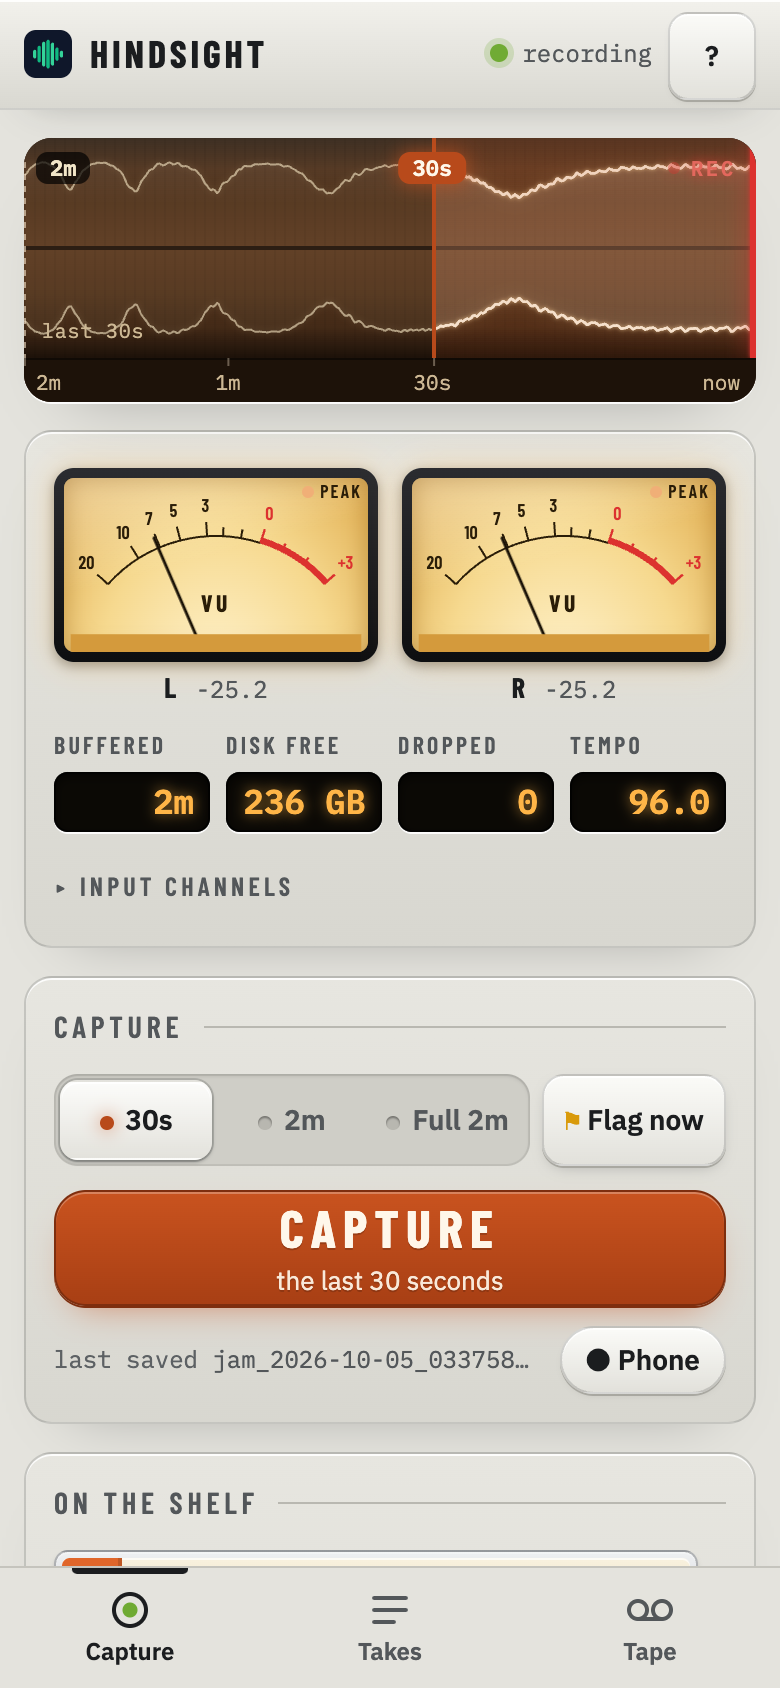
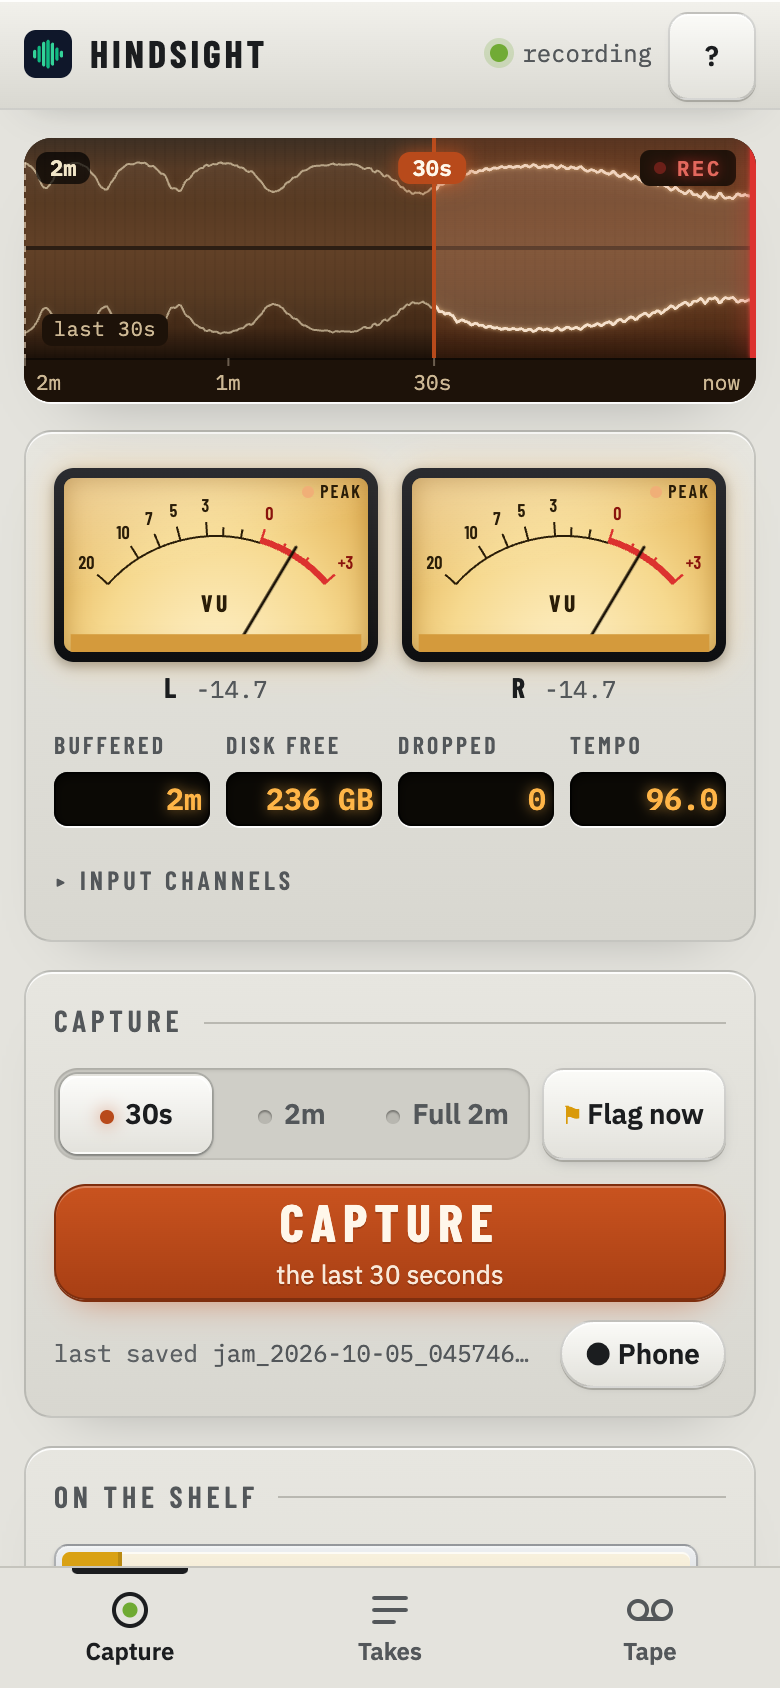
PR 6: the take on tape everywhere, the guide, cache bump
The phone's notes strip moves to the take's own scale too, so drawColumns
draws a list row and nothing else.

diff --git a/web/static/lib/wave/page.js b/web/static/lib/wave/page.js
@@ -17,7 +17,8 @@ import {
   barBeat, fmtTime, fmtClock, fmtPoint, clampRegion, fmtRegionLength,
   SNAPS, SNAP_LABELS, initialSnap, tempoLabel, snapOnTempo, tempoPending, nudgeFrame, snapFrame, setPoint, prevFlag, nextFlag,
 } from './geometry.js';
-import { peakColumns, foldChannels, drawColumns } from './draw.js';
+import { levelsFor, takeGain } from './draw.js';
+import { drawTrace } from './tape-strip.js';
 import { flagRequest, asFlags, newFlagId } from '../flags.js';
 import { holdScreen } from '../wakelock.js';
 import { initHelp } from '../help/help.js';
@@ -1080,13 +1081,14 @@ async function main() {
   const strip = $('notes-strip');
   const stripCtx = strip.getContext('2d');
   let stripCols = null;
+  let stripGain = null;
   function stripResize() {
     const r = strip.getBoundingClientRect();
     if (r.width <= 0) return;
     const dpr = window.devicePixelRatio || 1;
     strip.width = Math.round(r.width * dpr);
     strip.height = Math.round(r.height * dpr);
-    stripCols = foldChannels(peakColumns(filePeaks, Math.round(r.width)), filePeaks.channels);
+    stripCols = levelsFor(filePeaks, Math.max(1, Math.round(r.width)));
     drawStrip();
   }
   function drawStrip() {
@@ -1097,7 +1099,15 @@ async function main() {
     stripCtx.clearRect(0, 0, W, H);
     const played = (state.cursor / total) * W;
     const waveOn = token('--wave', '#268bd2'), waveOff = token('--wave-dim', '#a3b0ae');
-    drawColumns(stripCtx, stripCols, 1, { top: 0, height: H, color: (x) => (x < played ? waveOn : waveOff) });
+    // The take's trace, on its own scale (as its view above), lit where played.
+    const opts = { cy: H / 2, half: H / 2 - 2, gain: stripGain ??= takeGain(filePeaks), fillAlpha: 0.3 };
+    drawTrace(stripCtx, stripCols, stripCols, { ...opts, line: waveOff });
+    stripCtx.save();
+    stripCtx.beginPath();
+    stripCtx.rect(0, 0, played, H);
+    stripCtx.clip();
+    drawTrace(stripCtx, stripCols, stripCols, { ...opts, line: waveOn });
+    stripCtx.restore();
     if (state.region) {
       stripCtx.fillStyle = withAlpha(waveOn, 0.2);
       stripCtx.fillRect((state.region.start / total) * W, 0, ((state.region.end - state.region.start) / total) * W, H);

diff --git a/web/static/lib/wave/draw.js b/web/static/lib/wave/draw.js
@@ -1,18 +1,14 @@
 // web/static/lib/wave/draw.js
-// One waveform renderer for every place a take is drawn: a row in the list,
-// the overview strip, and the take page. They used to disagree -- the list on
-// a dB scale, the take page linear with a "fit quiet takes" gain -- so the
-// same take looked loud in one place and silent in the other.
+// Waveform drawing. A take is drawn on one scale wherever it's drawn -- its
+// cassette and spine, the tape's blocks, its take page and overview: levels,
+// the loudest moment of each slice, scaled by the take's own peak (takeGain,
+// at most x8 so a near-silent take still looks quiet). Bars bend them by a
+// 0.85 power, as the boards draw them; the trace draws them straight.
 //
-// Two scales live here. drawColumns draws on the dB scale the meters and the
-// buffer ribbon use (meter.js ampToFrac: -60..0 dBFS, sign kept): below about
-// -20 dBFS linear amplitude looks like silence, and a home recording mostly
-// lives there. But on that scale a whole take reads as one flat block, so the
-// Reel-to-reel bars and trace use levels instead: the loudest moment of each
-// slice, scaled by the take's own peak (takeGain, at most x8 so a near-silent
-// take still looks quiet) and lifted by a 0.85 power. Every view of a take
-// uses the same gain, so it looks the same everywhere. Pure apart from the
-// canvas context it's handed.
+// drawColumns is the older renderer, on the dB scale the meters and the
+// buffer ribbon use (meter.js ampToFrac): it draws a list row (RowWave's
+// 'row' look) and nothing else now. Pure apart from the canvas context it's
+// handed.
 
 import { ampToFrac } from '../meter.js';
 

diff --git a/web/static/lib/wave/overview.js b/web/static/lib/wave/overview.js
@@ -73,8 +73,8 @@ export class Overview {
     this.raf = requestAnimationFrame(() => { this.raf = 0; this.paint(); });
   }
 
-  // Renders the static, whole-take waveform (channels folded into one lane,
-  // on the shared dB scale) into this.waveCache at the current device-pixel
+  // Renders the static, whole-take trace on tape (channels folded into one
+  // lane, on the take's own scale) into this.waveCache at the current device-pixel
   // size. paint() only re-runs it when the size changes, not on every tick.
   renderWaveCache() {
     const { dpr, cssW: W, cssH: H } = this;

diff --git a/web/static/lib/wave/rowwave.js b/web/static/lib/wave/rowwave.js
@@ -1,6 +1,6 @@
 // web/static/lib/wave/rowwave.js
-// A take's waveform in the list: drawn by the same renderer as the take page
-// and the overview (draw.js, on the dB scale), played through a plain
+// A take's waveform in a list row (draw.js drawColumns, on the meters' dB
+// scale), played through a plain
 // <audio> on the take's preview. Tap or drag to seek; the played part is
 // brighter; the take's selection shows as a bracket.
 //

diff --git a/web/static/sw.js b/web/static/sw.js
@@ -5,7 +5,7 @@
 // the Pi itself, so there is nothing useful to serve when it is unreachable.
 
 // Bump whenever SHELL changes, so installed phones fetch the new shell.
-const CACHE = 'hindsight-shell-v22';
+const CACHE = 'hindsight-shell-v23';
 const SHELL = [
   '/',
   '/index.html',

diff --git a/docs/architecture.md b/docs/architecture.md
@@ -701,7 +701,7 @@ the tape page will share. The pure parts of each are node-tested.
 | `edit/gestures` | The pointer machinery any editing surface extends: a drag pans, a hold then a drag selects (with the view scrolling under a finger held at an edge), taps and double-taps, pinch and wheel, and rollback on a cancel or a second finger |
 | `wave/view` | The take's editing canvas, in three zones. The ruler: flag pins on top (tap to open, drag to move), bar numbers below, the playhead handle ▾ (drag to scrub silently) and bar 1 (drag the downbeat). The body: the waveform. The grips: In and Out at the selection's ends and the move handle between them |
 | `wave/geometry` | Pixel and frame math, the bar grid and ruler ticks, Snap, In/Out with a pending point, flag stepping |
-| `wave/draw` | Waveform drawing. `drawColumns` draws on the dB scale the meters use (the take page, its overview and the main page's latest take, until the Reel-to-reel PRs move them); `levelsFor`, `takeGain`, `lift`, `smooth` and `drawBars` draw the cassette bars from linear peaks scaled by the take's own peak (one gain per take, so it looks the same everywhere) |
+| `wave/draw` | Waveform drawing: `levelsFor`/`levelsOfColumns`, `takeGain`, `lift`, `smooth` and `drawBars` -- every view of a take (cassette, spine, tape block, take page, overview) draws on the take's own scale (one gain per take). `drawColumns`, on the meters' dB scale, draws a list row only |
 | `wave/tape-strip` | Trace on tape: `paintOxide` paints the brown strip, `drawTrace` the glowing line along a take's envelope (one glow pass per call; blur in CSS px, scaled to device pixels) |
 | `wave/rowwave` | A list row's waveform and its playback, with the selection's bracket |
 | `wave/tiles` | Fetches and caches `/api/peaks` ranges, drawing the coarsest thing it has until the finer tile arrives |

diff --git a/docs/guide.md b/docs/guide.md
@@ -187,7 +187,9 @@ point at the gestures that matter; **Got it** puts them away for good.
 - **The ruler:** bar numbers (or seconds, without a BPM), and the flags as
   pins above them. **▾** is the playhead; drag it to scrub silently. With a
   BPM, bar **1** is the downbeat; drag it to line the grid up.
-- **The waveform,** drawn on the meters' scale.
+- **The take, on tape:** its sound as a glowing trace on brown oxide, left
+  above right, lit where it has played, on the same scale as its cassette on
+  the takes page.
 - **The grips,** under the waveform at the selection's ends, with the move
   handle between them.
 - **The toolbar:** ▶ · ⟲ Loop · In · Out · ⚑ · ◂⚑ ⚑▸; then, with a
